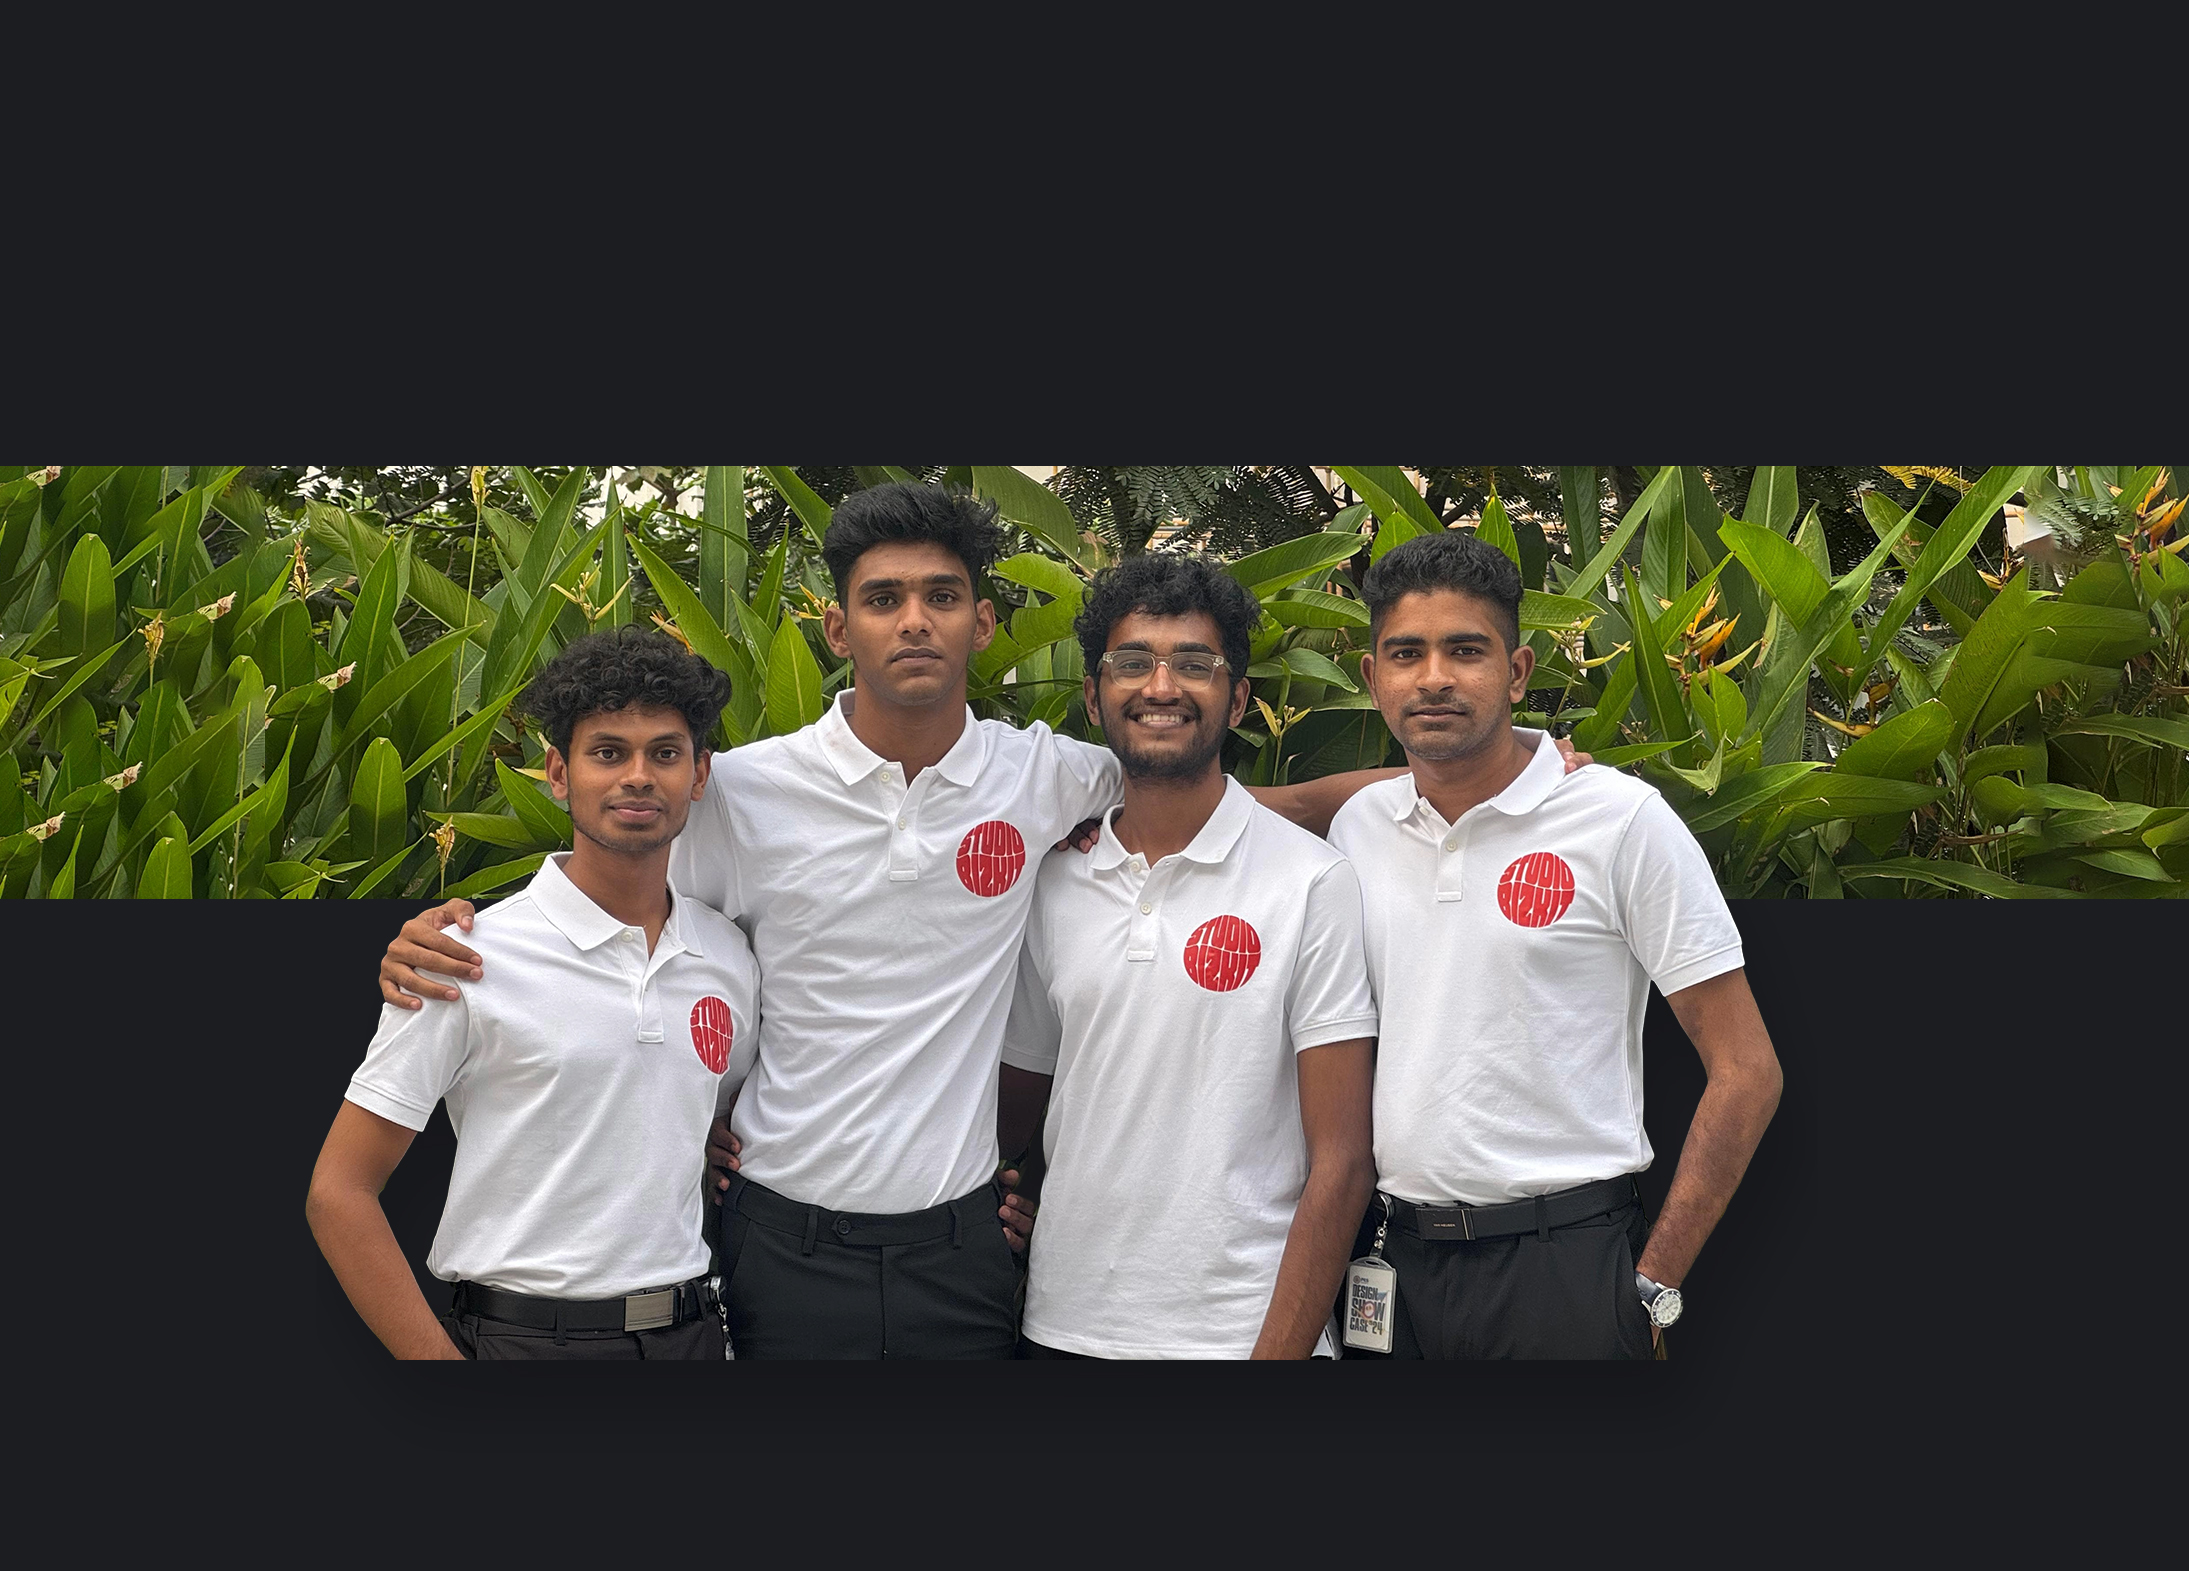
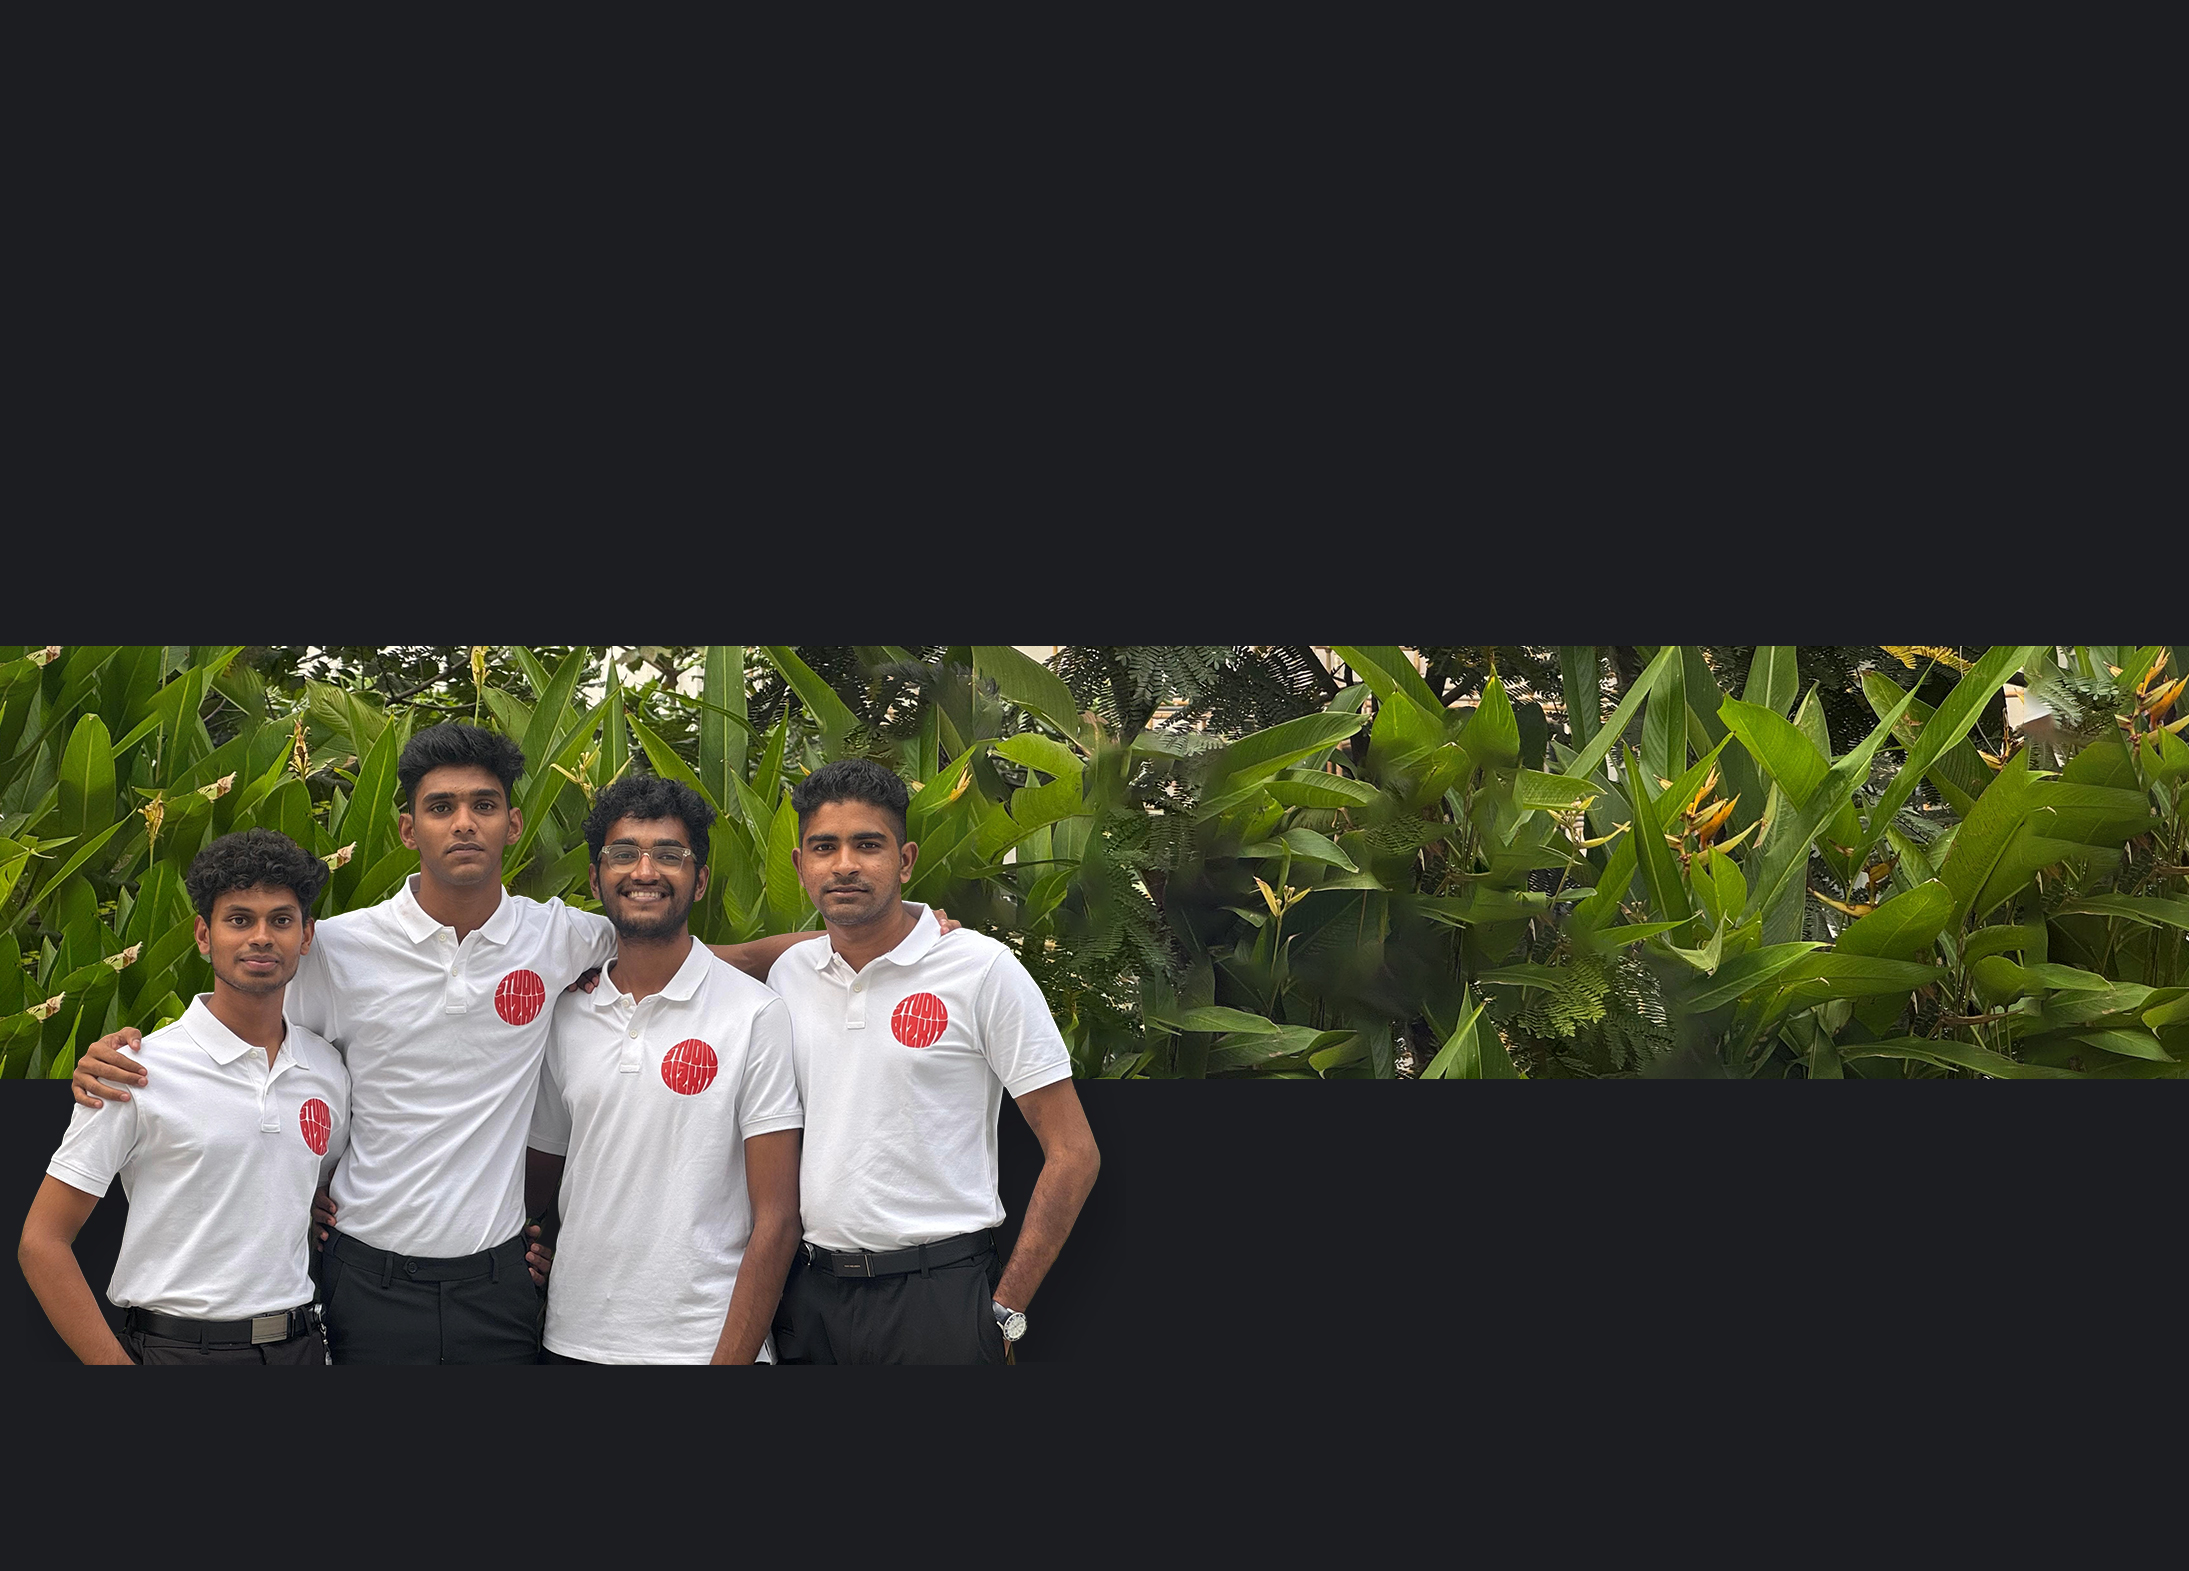
Added links

diff --git a/src/components/Landing/style.module.scss b/src/components/Landing/style.module.scss
@@ -1,63 +1,105 @@
-.landing{
+.landing {
+  position: relative;
+  display: flex;
+  height: 100vh;
+  overflow: hidden;
+
+  img {
+    object-fit: cover;
+    width: 100%;
+    height: auto;
+    max-width: 100%;
+  }
+
+  .sliderContainer {
+    position: absolute;
+    top: calc(100vh - 580px);
+  }
+
+  .slider {
+    position: relative;
+    white-space: nowrap;
+  }
+
+  .slider p {
+    position: relative;
+    margin: 0px;
+    color: #ee3224;
+    font-size: 230px;
+    font-weight: 500;
+    padding-right: 50px;
+  }
+
+  .slider p:nth-of-type(2) {
+    position: absolute;
+    left: 100%;
+    top: 0;
+  }
+
+  .banner {
+    position: absolute;
+    top: 15%;
+    align-items: "center";
+    justify-content: "center";
+    height: 200px;
+    width: 200px;
+  }
+
+  .description {
+    position: absolute;
+    top: 35%;
+    left: 65%;
+    color: white;
+    font-size: 24px;
+    font-weight: 300;
+    p {
+      margin: 0px;
+      margin-bottom: 10px;
+    }
+    svg {
+      transform: scale(2);
+      margin-bottom: 100px;
+    }
+  }
+
+  @media (max-width: 768px) {
     position: relative;
     display: flex;
     height: 100vh;
     overflow: hidden;
-    background-color: "yellow";
 
-    img{
-      object-fit: cover;
+    img {
+      width: 80%;
+      height: auto;
     }
-    
-    .sliderContainer{
-      position: absolute;
-      top: calc(100vh - 350px);
+    .slider p {
+      font-size: 100px;
     }
-    
-    .slider{
-      position: relative;
-      white-space: nowrap;
+    .sliderContainer {
+      top: calc(100vh - 600px);
     }
-    
-    .slider p{
-      position: relative;
-      margin: 0px;
-      color: #ee3224;
-      font-size: 230px;
-      font-weight: 500;
-      padding-right: 50px;
-    }
-    
-    .slider p:nth-of-type(2){
-      position: absolute;
-      left: 100%;
-      top: 0;
-    }
-  
-    .banner{
-      position: absolute;
-      top: 15%;
-      align-items: "center";
-      justify-content: "center";
-      height: 200px;
-      width: 200px;
-   }
-
-    .description{
-      position: absolute;
-      top: 35%;
-      left: 65%;
-      color: white;
-      font-size: 24px;
-      font-weight: 300;
-      p{
-        margin: 0px;
-        margin-bottom: 10px;
-      }
-      svg{
-        transform: scale(2);
-        margin-bottom: 100px;
-      }
+    .description {
+      font-size: 18px;
+      top: 40%;
+      left: 50%;
+      transform: translateX(-50%);
     }
   }
-  
+
+  @media (max-width: 480px) {
+    .slider p {
+      font-size: 70px;
+    }
+    .sliderContainer {
+      top: calc(100vh - 600px);
+    }
+    .description {
+      font-size: 16px;
+      top: 45%;
+    }
+    img {
+      width: 60%;
+      height: auto;
+    }
+  }
+}

diff --git a/src/components/Landing/index.jsx b/src/components/Landing/index.jsx
@@ -1,7 +1,7 @@
 "use client";
 import Image from "next/image";
 import styles from "./style.module.scss";
-import { useRef, useLayoutEffect } from "react";
+import { useRef, useLayoutEffect, useState, useEffect } from "react";
 import gsap from "gsap";
 import { ScrollTrigger } from "gsap/all";
 import { slideUp } from "./animation";
@@ -13,6 +13,16 @@ export default function Home() {
   const slider = useRef(null);
   let xPercent = 0;
   let direction = -1;
+  const [isMobile, setIsMobile] = useState(false);
+
+  useEffect(() => {
+    const handleResize = () => {
+      setIsMobile(window.innerWidth < 768);
+    };
+    handleResize(); // Check on initial load
+    window.addEventListener("resize", handleResize);
+    return () => window.removeEventListener("resize", handleResize);
+  }, []);
 
   useLayoutEffect(() => {
     gsap.registerPlugin(ScrollTrigger);
@@ -38,7 +48,7 @@ export default function Home() {
     gsap.set(firstText.current, { xPercent: xPercent });
     gsap.set(secondText.current, { xPercent: xPercent });
     requestAnimationFrame(animate);
-    xPercent += 0.1 * direction;
+    xPercent += (isMobile ? 20 : 0.08) * direction;
   };
 
   return (
@@ -49,22 +59,33 @@ export default function Home() {
       className={styles.landing}
     >
       <img
-        src="/images/bg.jpg"
+        src={isMobile ? "/images/mobile-overlay.png" : "/images/overlay.png"}
+        alt="overlay"
+        style={{
+          width: "100%",
+          height: "100%",
+          objectFit: "cover",
+          position: "absolute",
+          zIndex: "10",
+        }}
+      />
+      <div className={styles.sliderContainer}>
+        <div ref={slider} className={styles.slider}>
+          <p ref={firstText}>creative crumbs -</p>
+          <p ref={secondText}>creative crumbs -</p>
+        </div>
+      </div>
+      <img
+        src={isMobile ? "/images/bg-mobile.png" : "/images/bg.jpg"}
         alt="background"
         style={{
+          zIndex: "-1",
           width: "100%",
           height: "100%",
           objectFit: "cover",
           position: "absolute",
         }}
       />
-
-      {/* <div className={styles.sliderContainer}>
-        <div ref={slider} className={styles.slider}>
-          <p ref={firstText}>creative crumbs -</p>
-          <p ref={secondText}>creative crumbs -</p>
-        </div>
-      </div> */}
       <div data-scroll data-scroll-speed={0.1} className={styles.description}>
         {/* <svg
           width="9"

diff --git a/src/components/Contact/index.jsx b/src/components/Contact/index.jsx
@@ -31,7 +31,12 @@ export default function Index() {
           <h2>together</h2>
           <motion.div style={{ x }} className={styles.buttonContainer}>
             <Rounded backgroundColor={"#2482ee"} className={styles.button}>
-              <p>Get in touch</p>
+              <a
+                href="mailto:hello@studiobizkit.com"
+                style={{ color: "white" }}
+              >
+                <p>Get in touch</p>
+              </a>
             </Rounded>
           </motion.div>
           <motion.svg
@@ -50,17 +55,26 @@ export default function Index() {
         </div>
         <div className={styles.nav}>
           <Rounded>
-            <p>hello@studiobizkit.com</p>
+            <p>
+              <a
+                href="mailto:hello@studiobizkit.com"
+                style={{ color: "white" }}
+              >
+                hello@studiobizkit.com
+              </a>
+            </p>
           </Rounded>
           <Rounded>
-            <p>+91 72002 74687</p>
+            <a href="tel:+917200274687" style={{ color: "white" }}>
+              <p>+91 72002 74687</p>
+            </a>
           </Rounded>
         </div>
         <div className={styles.info}>
           <div>
             <span>
               <h3>Version</h3>
-              <p>2024 © Edition</p>
+              <p>2025 © Edition</p>
             </span>
           </div>
           <div>

diff --git a/src/components/Projects/components/project/index.jsx b/src/components/Projects/components/project/index.jsx
@@ -1,13 +1,29 @@
-'use client';
-import React from 'react'
-import styles from './style.module.scss';
+"use client";
+import React from "react";
+import styles from "./style.module.scss";
 
-export default function Index({index, title, manageModal}) {
+export default function Index({ index, title, manageModal, url }) {
+  const handleClick = () => {
+    if (url) {
+      window.open(url, "_blank");
+    } else {
+      console.error("URL is not defined");
+    }
+  };
 
-    return (
-        <div onMouseEnter={(e) => {manageModal(true, index, e.clientX, e.clientY)}} onMouseLeave={(e) => {manageModal(false, index, e.clientX, e.clientY)}} className={styles.project}>
-            <h2>{title}</h2>
-            <p>Design & Development</p>
-        </div>
-    )
+  return (
+    <div
+      onClick={handleClick}
+      onMouseEnter={e => {
+        manageModal(true, index, e.clientX, e.clientY);
+      }}
+      onMouseLeave={e => {
+        manageModal(false, index, e.clientX, e.clientY);
+      }}
+      className={styles.project}
+    >
+      <h2>{title}</h2>
+      <p>Design & Development</p>
+    </div>
+  );
 }

diff --git a/src/components/Projects/index.jsx b/src/components/Projects/index.jsx
@@ -12,21 +12,25 @@ const projects = [
     title: "gymgrub",
     src: "gymgrub.png",
     color: "#6e6d6d",
+    url: "https://www.behance.net/gallery/201566335/UI-Case-Study-Gymgrub-Gym-Food-Delivery-App",
   },
   {
     title: "barbie",
     src: "barbie.png",
     color: "#b0b0b0",
+    url: "https://www.behance.net/gallery/198978565/Branding-Barbie-Mens-Personal-Care-",
   },
   {
     title: "zenly",
     src: "zenly.png",
     color: "#c2c4e5",
+    url: "https://www.behance.net/gallery/193831697/Branding-Zenly-Redefining-workspaces-",
   },
   {
     title: "wildcrown",
     src: "wildcrown.png",
     color: "#000000",
+    url: "https://www.behance.net/gallery/203388027/Wildcrown-Brand-Identity",
   },
 ];
 
@@ -116,6 +120,7 @@ export default function Home() {
             <Project
               index={index}
               title={project.title}
+              url={project.url}
               manageModal={manageModal}
               key={index}
             />

diff --git a/src/components/Header/style.module.scss b/src/components/Header/style.module.scss
@@ -1,7 +1,7 @@
 .header{
     position: absolute;
     display: flex;
-    z-index: 1;
+    z-index: 15;
     top: 0;
     color: white;
     padding: 35px;
